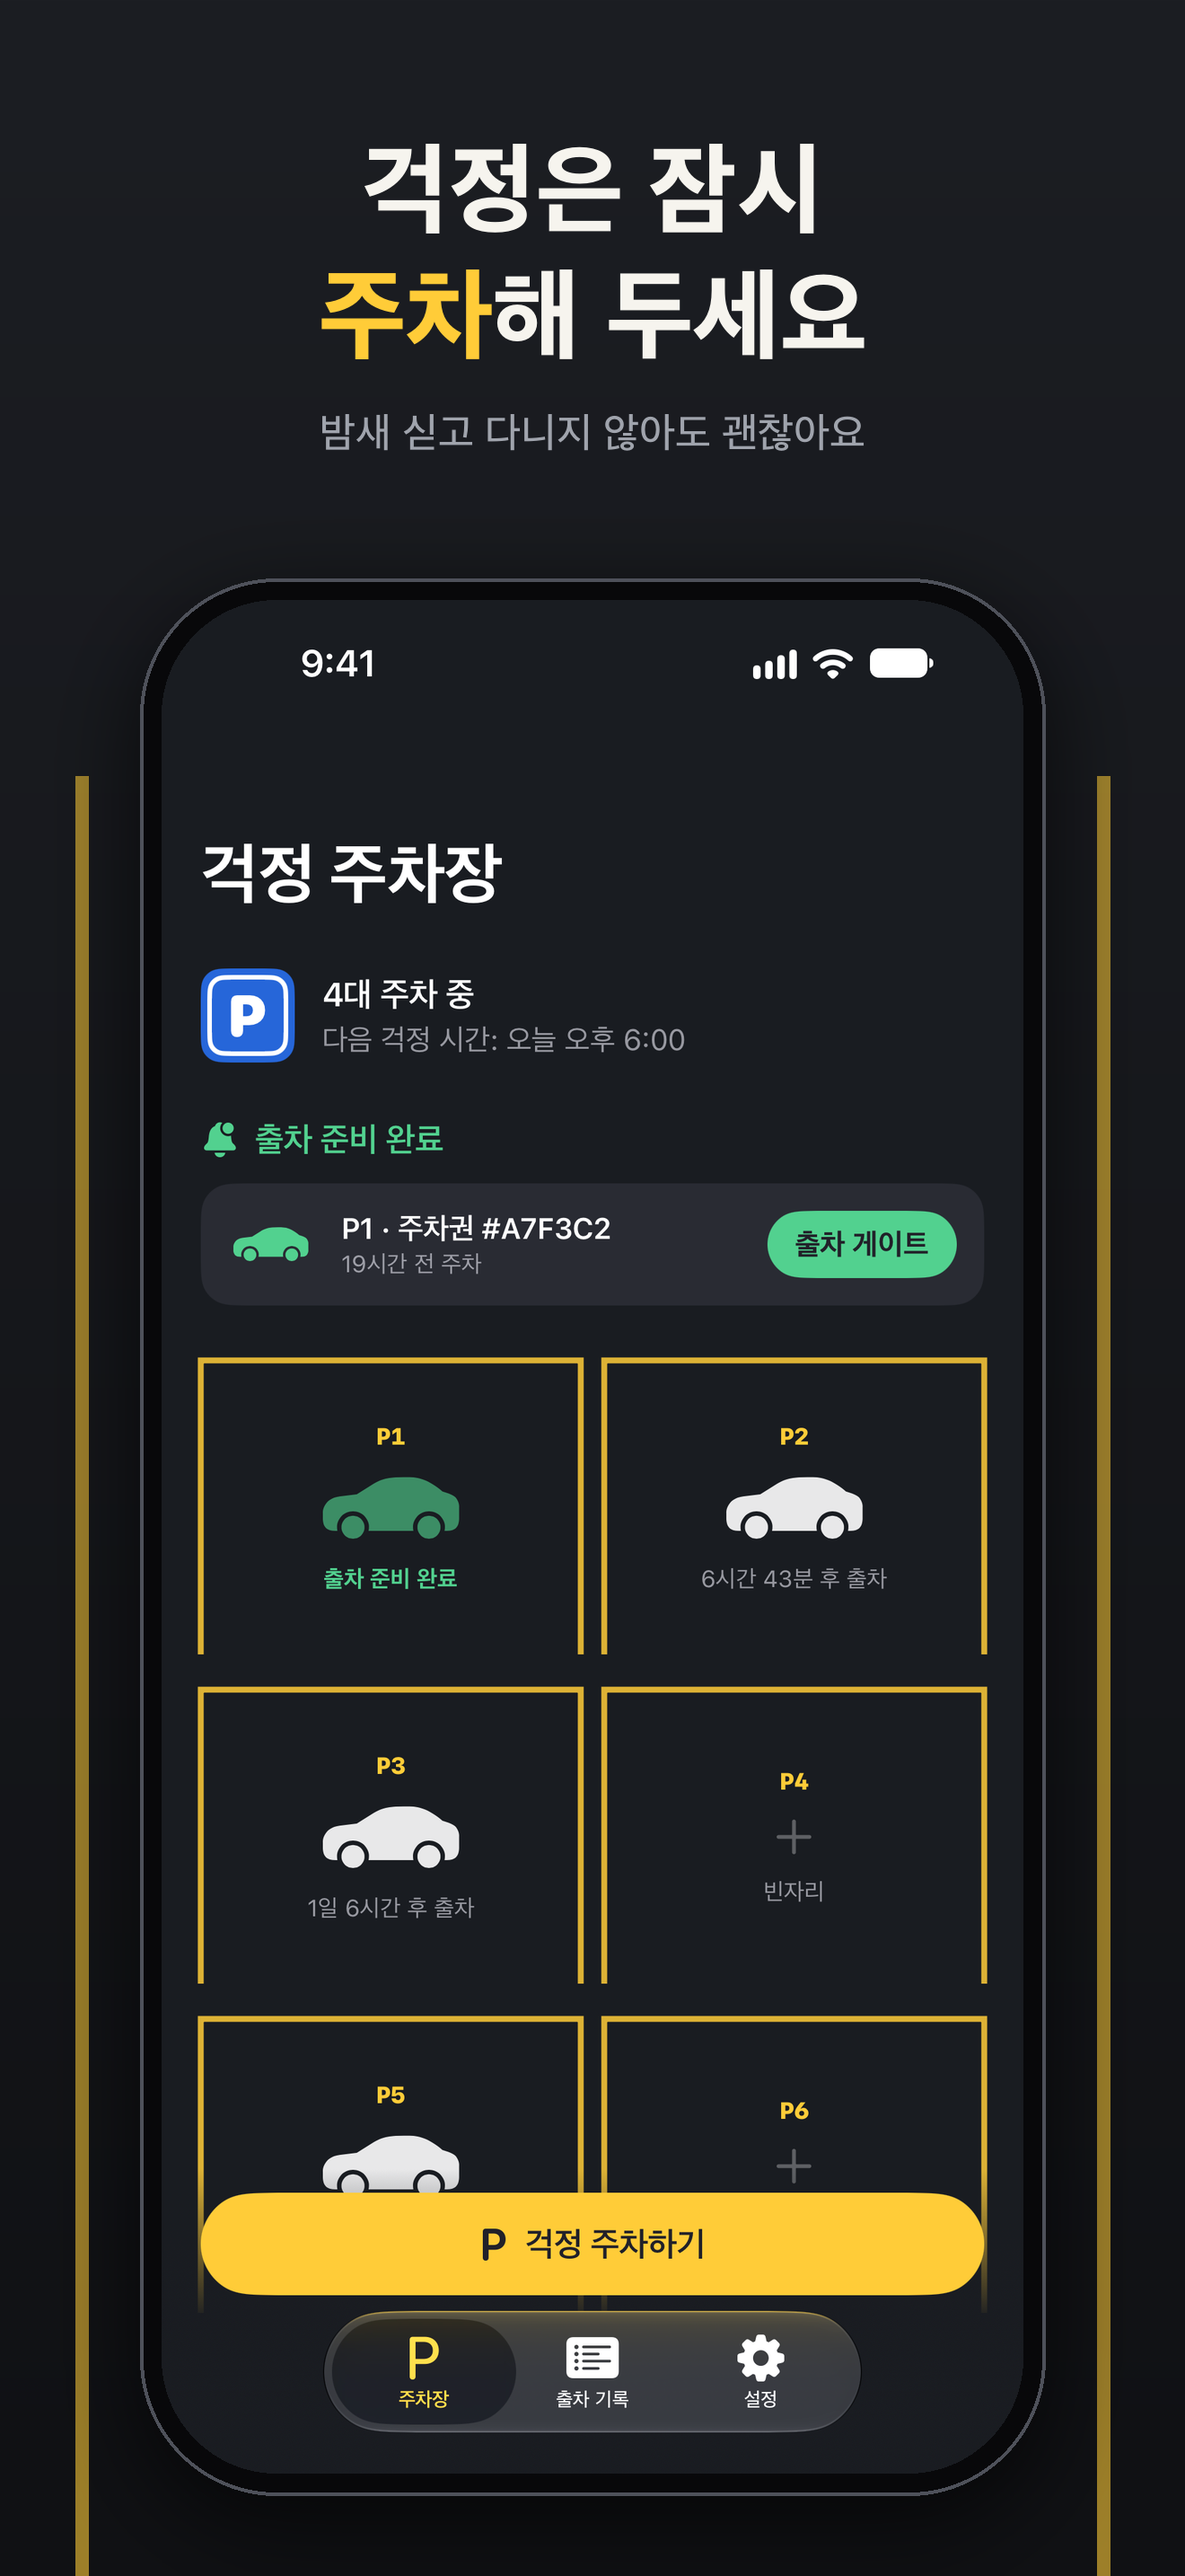
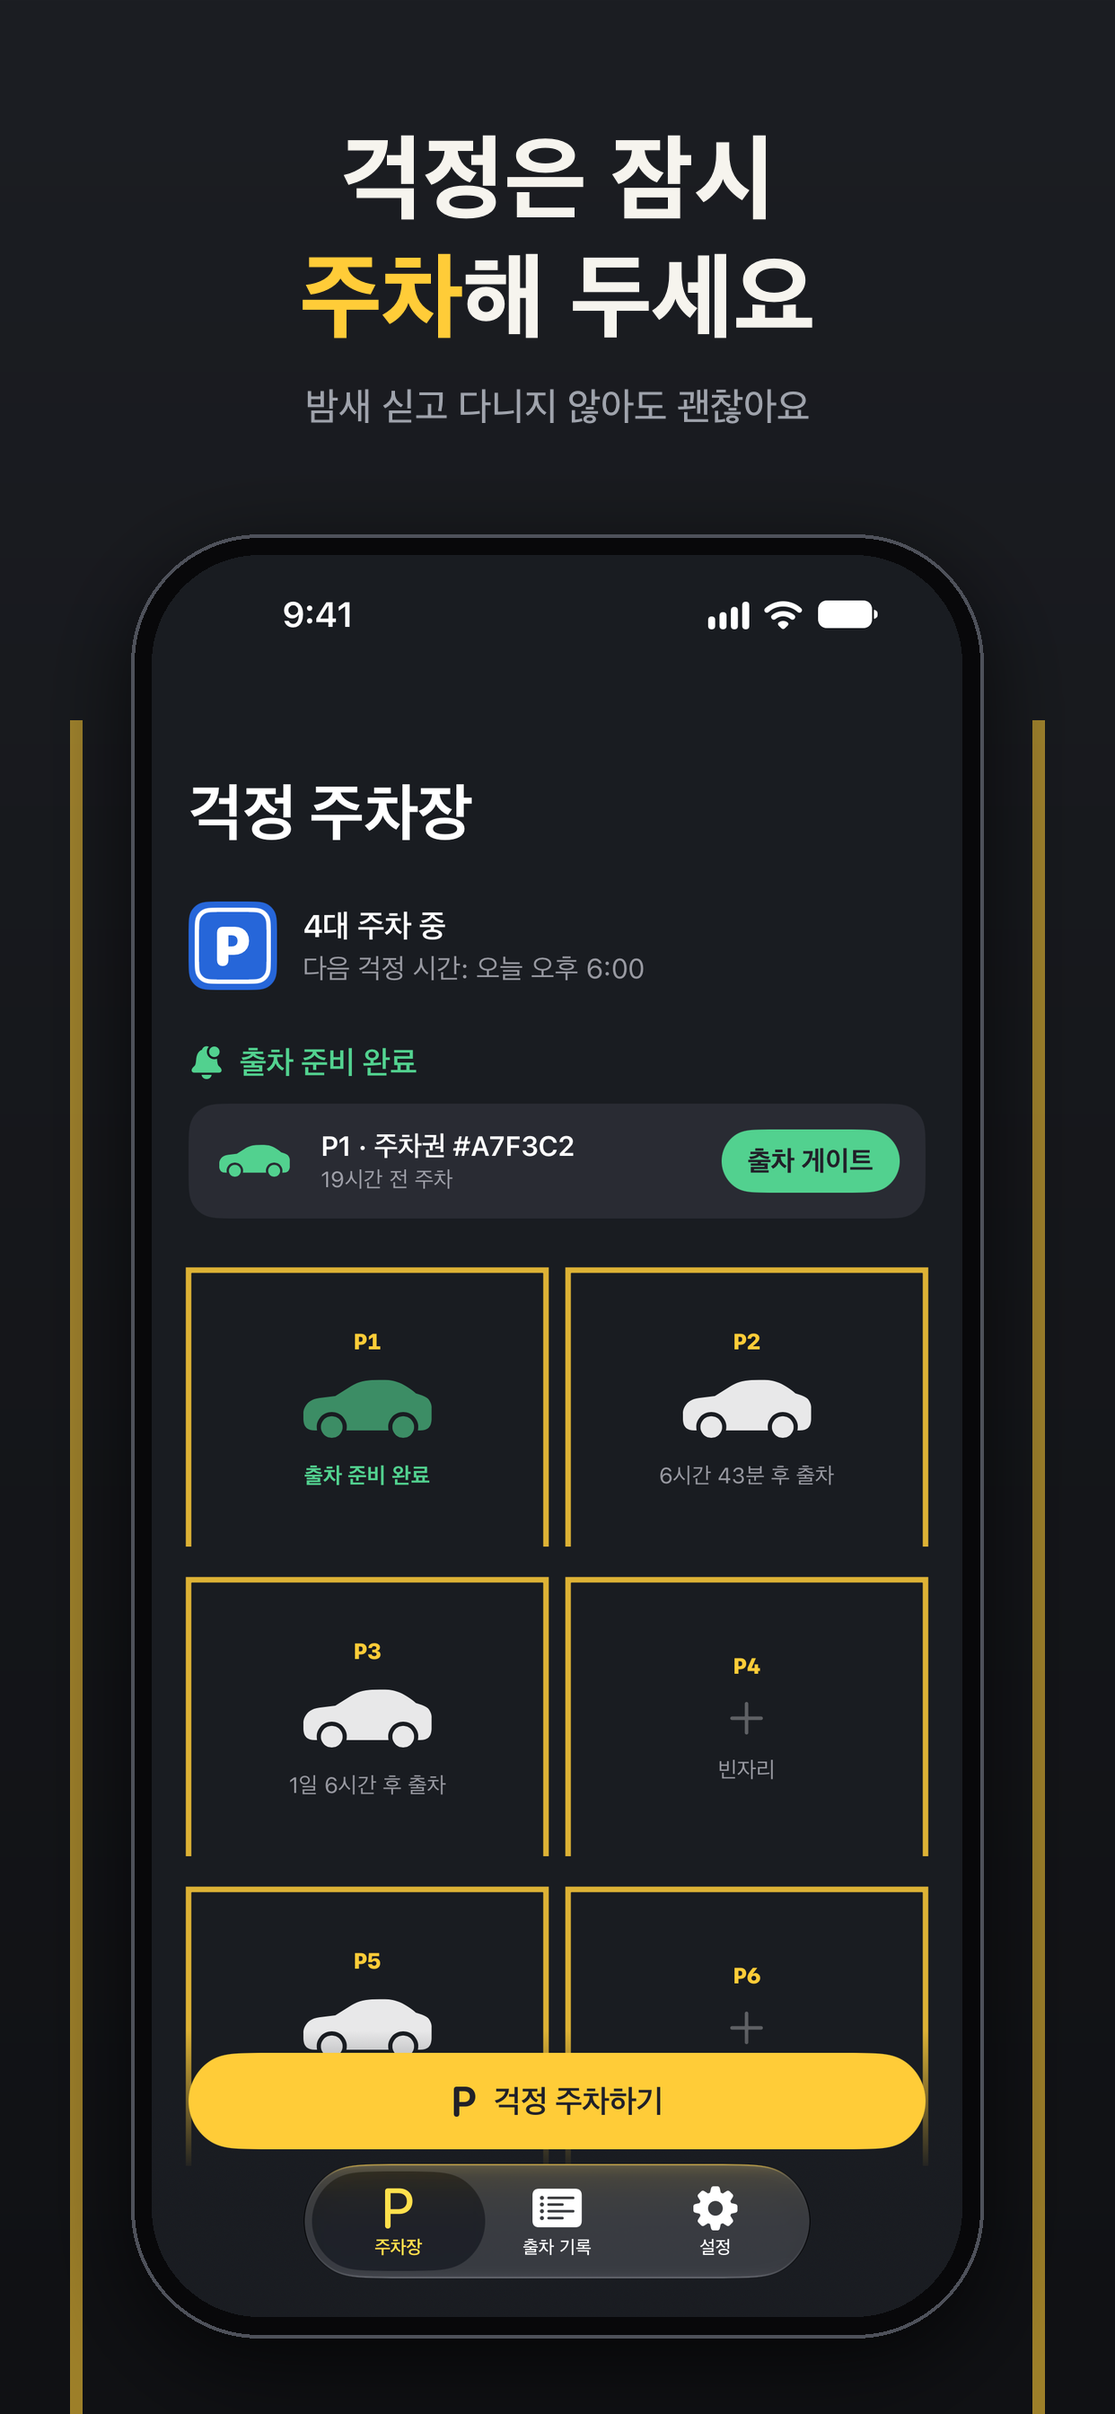
Resize App Store screenshots to 6.5" (1242x2688)
Compositor layout now scales from the canvas width, so the output size is
set by W, H alone.

diff --git a/AppStore/compose_screenshots.py b/AppStore/compose_screenshots.py
@@ -1,5 +1,5 @@
 #!/usr/bin/env python3
-"""Compose App Store marketing screenshots (6.9", 1320x2868) from raw simulator captures.
+"""Compose App Store marketing screenshots (6.5", 1242x2688) from raw simulator captures.
 
 Usage: python3 compose_screenshots.py <raw_dir> <out_dir>
   raw_dir contains {ko,en}/{lot,park,ticket,gate,log}.png captured by capture_screenshots.sh
@@ -8,7 +8,14 @@ import sys
 from pathlib import Path
 from PIL import Image, ImageDraw, ImageFilter, ImageFont
 
-W, H = 1320, 2868
+W, H = 1242, 2688
+S = W / 1320  # layout below is designed at 1320 wide
+
+
+def px(value):
+    return round(value * S)
+
+
 ASPHALT_TOP = (28, 30, 35)
 ASPHALT_BOTTOM = (16, 17, 20)
 YELLOW = (255, 204, 56)
@@ -71,10 +78,10 @@ def draw_centered_rich(draw, y, line, fnt):
 
 def background():
     bg = Image.new("RGB", (W, H))
-    px = ImageDraw.Draw(bg)
+    pen = ImageDraw.Draw(bg)
     for y in range(H):
         t = y / H
-        px.line([(0, y), (W, y)], fill=tuple(int(a + (b - a) * t) for a, b in zip(ASPHALT_TOP, ASPHALT_BOTTOM)))
+        pen.line([(0, y), (W, y)], fill=tuple(int(a + (b - a) * t) for a, b in zip(ASPHALT_TOP, ASPHALT_BOTTOM)))
     return bg
 
 
@@ -89,30 +96,31 @@ def compose(lang, shot, headline, subtitle, raw_dir):
     draw = ImageDraw.Draw(img)
 
     # Headline + subtitle
-    head_font = font(lang, 112 if lang == "ko" else 108, heavy=True)
-    sub_font = font(lang, 46, heavy=False)
-    y = 150
+    head_font = font(lang, px(112 if lang == "ko" else 108), heavy=True)
+    sub_font = font(lang, px(46), heavy=False)
+    y = px(150)
     for line in headline.split("\n"):
         draw_centered_rich(draw, y, line, head_font)
-        y += 140
-    y += 26
+        y += px(140)
+    y += px(26)
     sub_w = draw.textlength(subtitle, font=sub_font)
     draw.text(((W - sub_w) / 2, y), subtitle, font=sub_font, fill=GRAY)
 
     # Phone geometry
-    screen_w = 960
-    screen_h = round(screen_w * 2868 / 1320)
-    bezel = 24
+    raw = Image.open(raw_dir / lang / f"{shot}.png").convert("RGB")
+    screen_w = px(960)
+    screen_h = round(screen_w * raw.height / raw.width)
+    bezel = px(24)
     phone_w, phone_h = screen_w + bezel * 2, screen_h + bezel * 2
     px0 = (W - phone_w) // 2
-    py0 = H - phone_h - 90
-    screen_r = 128
+    py0 = H - phone_h - px(90)
+    screen_r = px(128)
     phone_r = screen_r + bezel
 
     # Parking bay: the phone is "parked" between two yellow lines, open at the front.
     bay = Image.new("RGBA", (W, H), (0, 0, 0, 0))
     bd = ImageDraw.Draw(bay)
-    gap, line_w, top = 58, 14, py0 + 220
+    gap, line_w, top = px(58), px(14), py0 + px(220)
     for x in (px0 - gap - line_w, px0 + phone_w + gap):
         bd.rectangle([x, top, x + line_w, H], fill=YELLOW + (150,))
     img.paste(bay, (0, 0), bay)
@@ -120,20 +128,20 @@ def compose(lang, shot, headline, subtitle, raw_dir):
     # Shadow
     shadow = Image.new("RGBA", (W, H), (0, 0, 0, 0))
     ImageDraw.Draw(shadow).rounded_rectangle(
-        [px0, py0 + 30, px0 + phone_w, py0 + phone_h + 30], radius=phone_r, fill=(0, 0, 0, 170)
+        [px0, py0 + px(30), px0 + phone_w, py0 + phone_h + px(30)], radius=phone_r, fill=(0, 0, 0, 170)
     )
-    shadow = shadow.filter(ImageFilter.GaussianBlur(50))
+    shadow = shadow.filter(ImageFilter.GaussianBlur(px(50)))
     img.paste(shadow, (0, 0), shadow)
 
     # Frame
     frame = ImageDraw.Draw(img)
     frame.rounded_rectangle([px0, py0, px0 + phone_w, py0 + phone_h], radius=phone_r, fill=(8, 8, 10))
     frame.rounded_rectangle(
-        [px0, py0, px0 + phone_w, py0 + phone_h], radius=phone_r, outline=(78, 81, 90), width=4
+        [px0, py0, px0 + phone_w, py0 + phone_h], radius=phone_r, outline=(78, 81, 90), width=px(4)
     )
 
     # Screen
-    screen = Image.open(raw_dir / lang / f"{shot}.png").convert("RGB").resize((screen_w, screen_h), Image.LANCZOS)
+    screen = raw.resize((screen_w, screen_h), Image.LANCZOS)
     img.paste(screen, (px0 + bezel, py0 + bezel), rounded_mask((screen_w, screen_h), screen_r))
     return img
 

diff --git a/README.md b/README.md
@@ -47,12 +47,12 @@ WorryParking/
 ├─ Services/     WorryTime 계산, 알림, StoreKit 2 구독 관리
 ├─ Components/   테마, 주차권(TicketView), 차단기, 공용 컨트롤
 └─ Views/        온보딩(실제 예시 포함), 주차장, 주차하기, 주차권 시트, 출차 게이트, Exit Log, 설정, 페이월
-AppStore/        스크린샷 캡처·합성 스크립트, 완성 스크린샷(ko/en, 6.9")
+AppStore/        스크린샷 캡처·합성 스크립트, 완성 스크린샷(ko/en, 6.5" 1242×2688)
 docs/            GitHub Pages — 소개 페이지, 개인정보 처리방침 (한/영)
 ```
 
 ## 앱스토어 스크린샷
-`AppStore/capture_screenshots.sh` — 시뮬레이터(iPhone 18 Pro Max)에서 DEBUG 스크린샷 모드(`-screenshotScene lot|park|ticket|gate|log`)로 샘플 데이터를 띄워 캡처하고, `AppStore/Screenshots/{ko,en}/`에 1320×2868 이미지를 만듭니다. 문구는 `AppStore/compose_screenshots.py`의 `COPY`에서 수정합니다.
+`AppStore/capture_screenshots.sh` — 시뮬레이터(iPhone 18 Pro Max)에서 DEBUG 스크린샷 모드(`-screenshotScene lot|park|ticket|gate|log`)로 샘플 데이터를 띄워 캡처하고, `AppStore/Screenshots/{ko,en}/`에 1242×2688(6.5") 이미지를 만듭니다. 문구는 `AppStore/compose_screenshots.py`의 `COPY`, 크기는 `W, H`에서 수정합니다.
 
 ## 출시 전 TODO
 - App Store Connect에 구독 그룹/상품 생성

diff --git a/todo.md b/todo.md
@@ -5,7 +5,7 @@
 - [x] 한국어 현지화 (Localizable.xcstrings, InfoPlist.xcstrings, StoreKit 설명)
 - [x] 온보딩에 실제 사용 예시 페이지 추가 (적기 → 주차 → 출차)
 - [x] GitHub Pages 소개 페이지 + 개인정보 처리방침 (docs/), `AppConfig.privacyURL` 교체, README 링크
-- [x] 앱스토어 스크린샷 5장 × ko/en (6.9" 1320×2868) — `AppStore/capture_screenshots.sh`로 재생성
+- [x] 앱스토어 스크린샷 5장 × ko/en (6.5" 1242×2688) — `AppStore/capture_screenshots.sh`로 재생성
 
 ## 출시 전
 - [ ] App Store Connect에 구독 그룹/상품 생성 (한국어 표시 이름/설명 포함)
